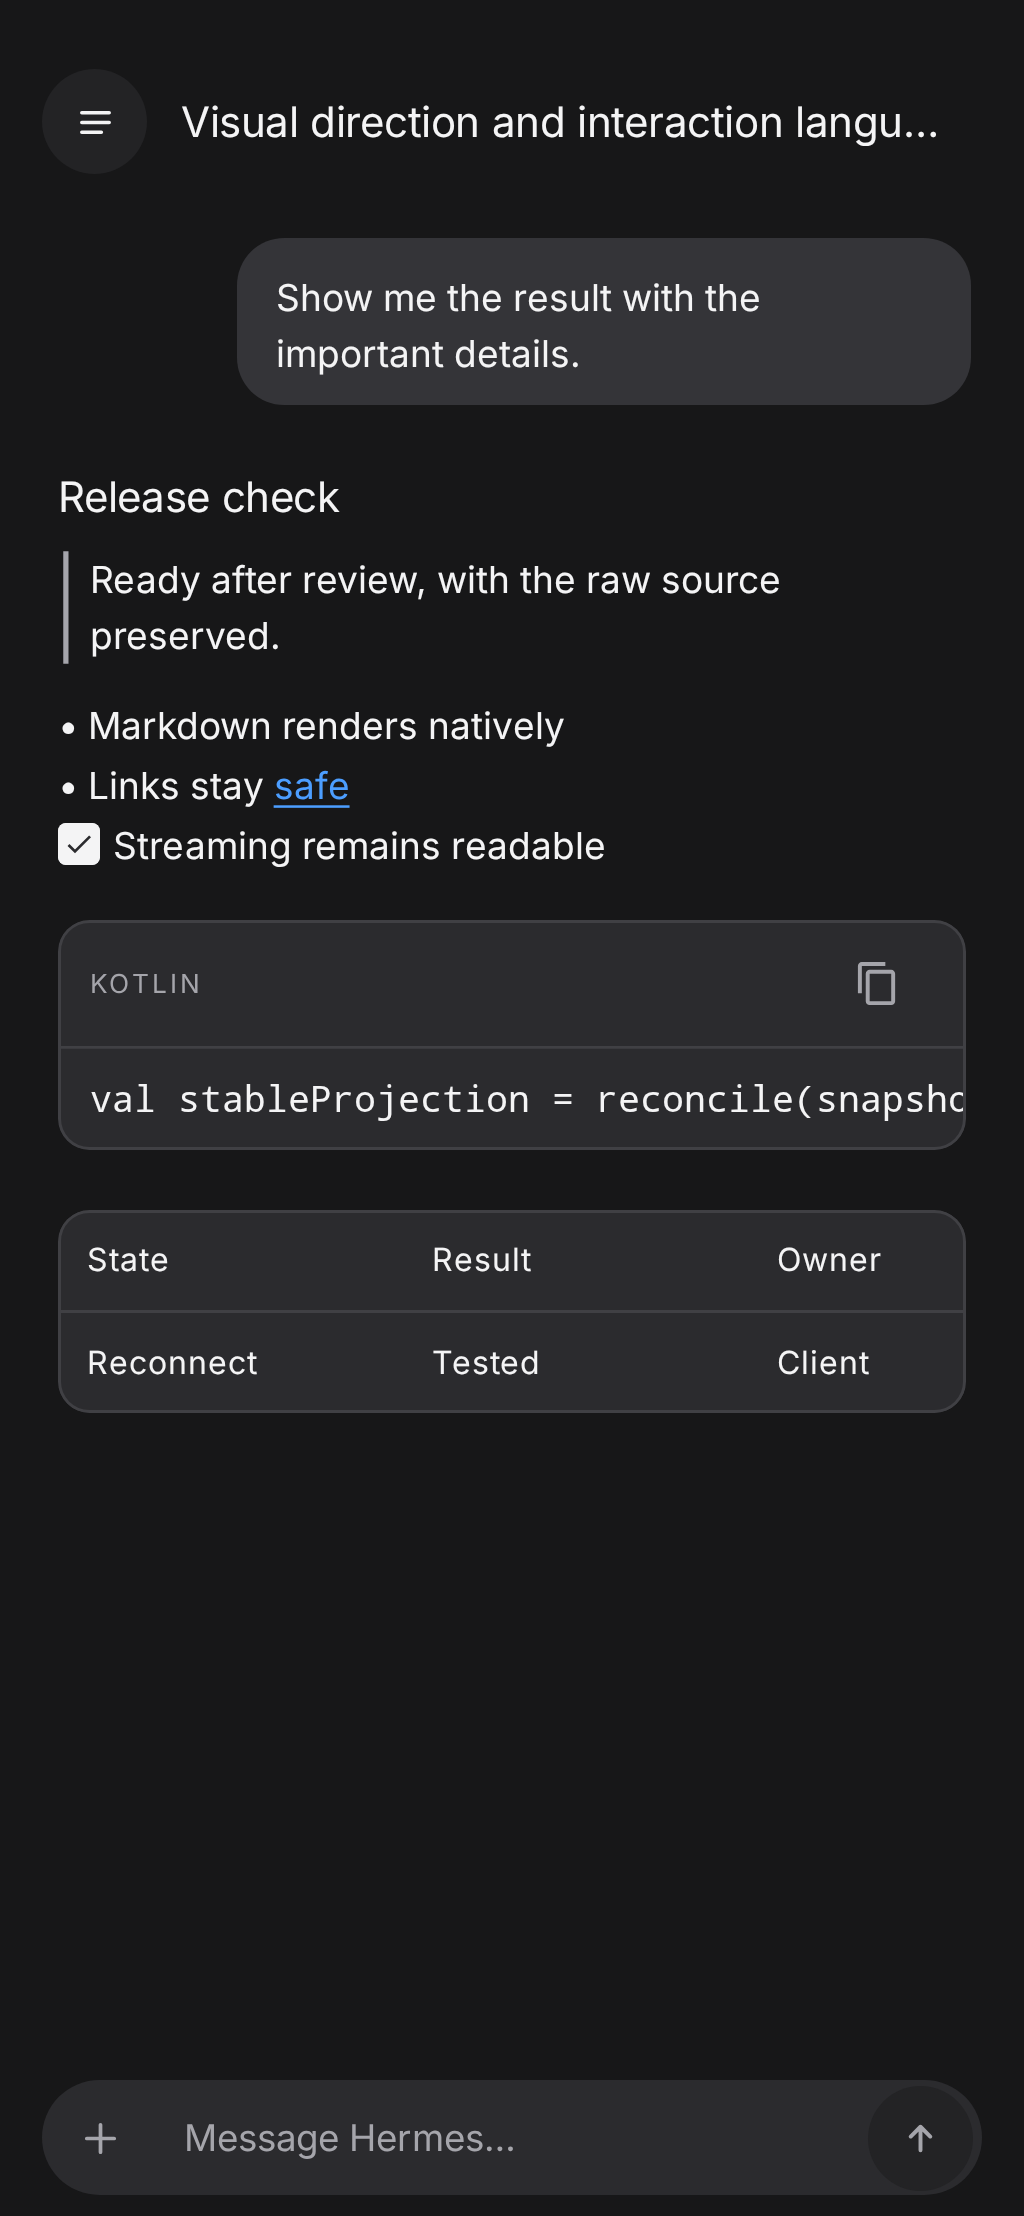
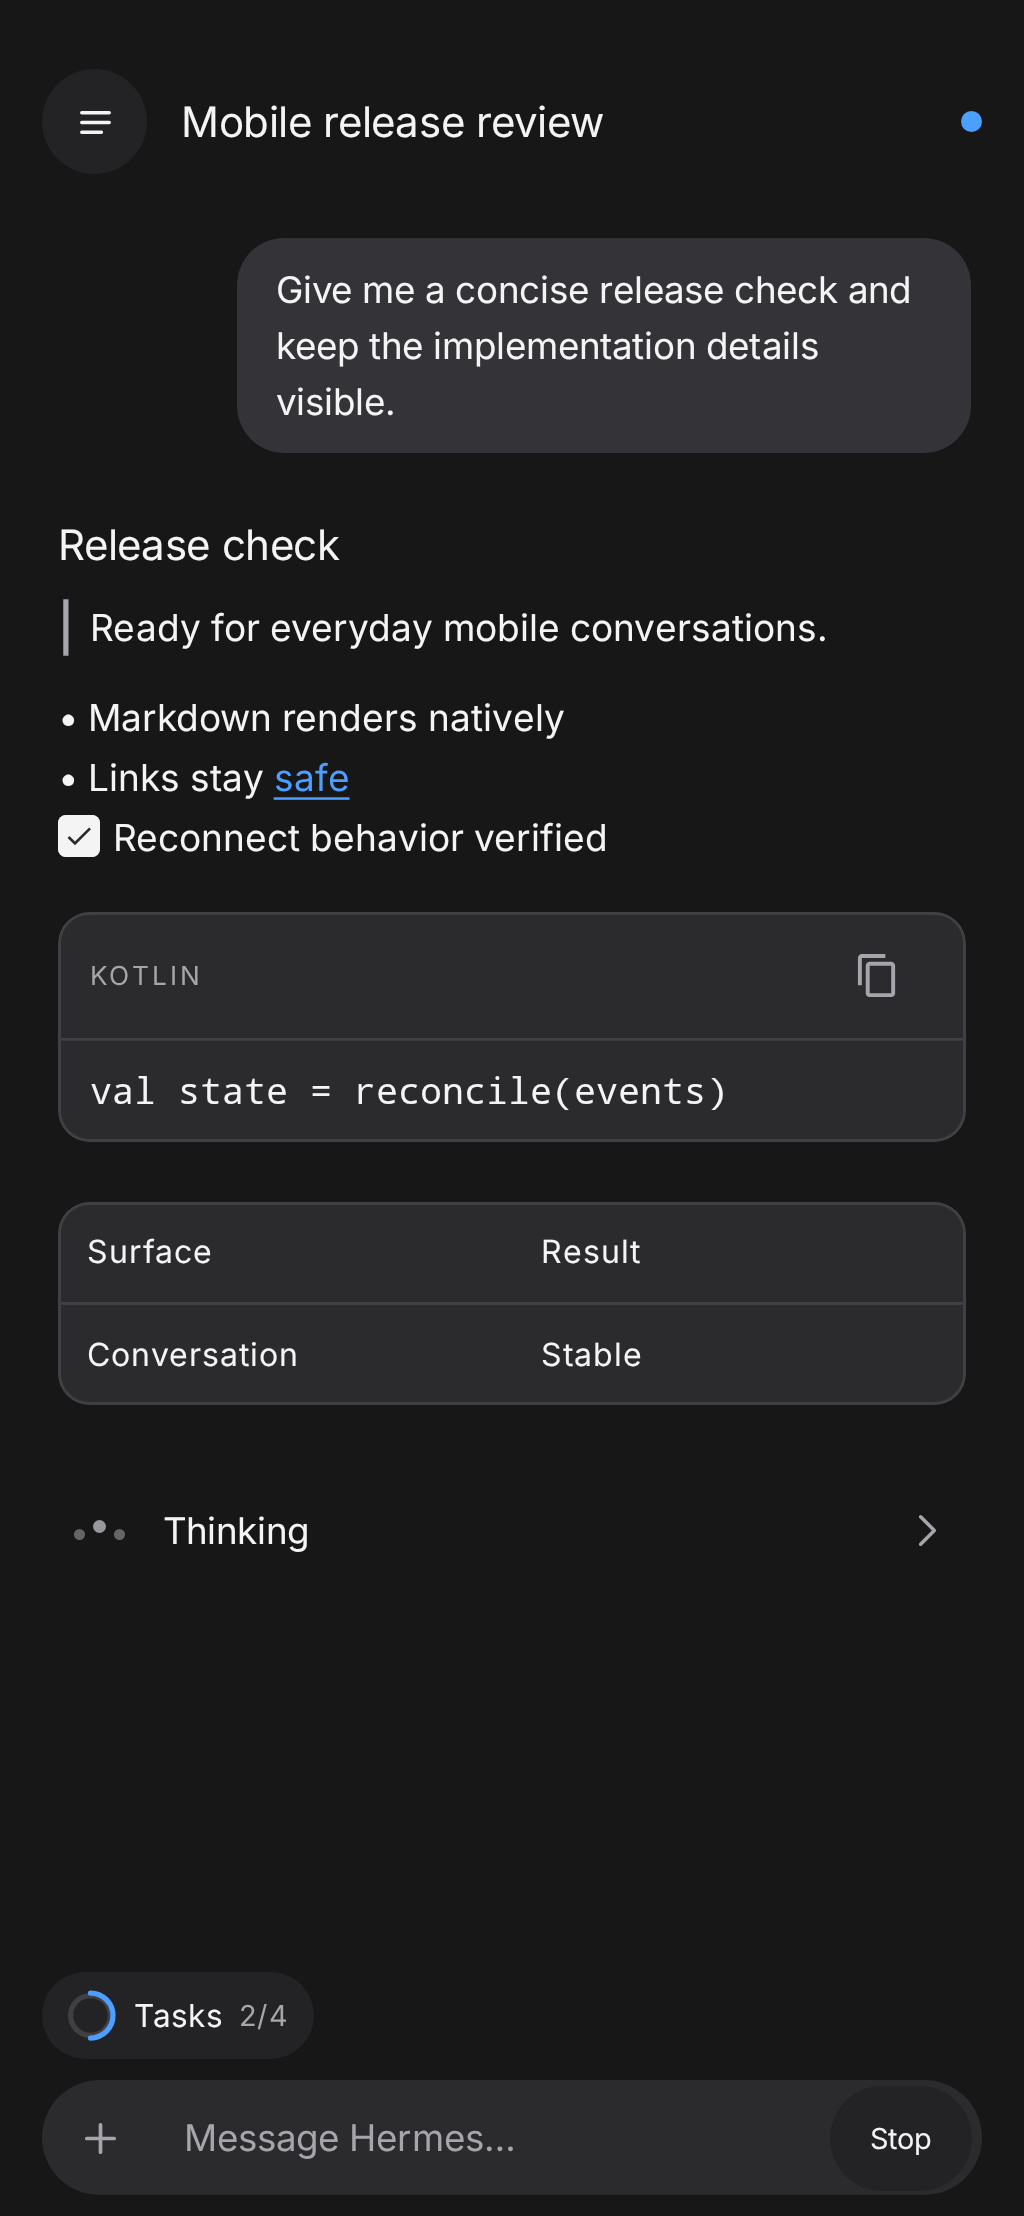
docs: refine screenshots and connection guide

diff --git a/README.md b/README.md
@@ -8,13 +8,13 @@ Celeste is a native Android client for a self-hosted [Hermes Agent](https://gith
 
 <table>
   <tr>
-    <td width="33%"><img src="docs/images/readme/conversation.png" alt="A rich Hermes conversation rendered in Celeste" /></td>
-    <td width="33%"><img src="docs/images/readme/thinking.png" alt="Thinking, task progress, and changed files in Celeste" /></td>
+    <td width="33%"><img src="docs/images/readme/conversation.png" alt="A rich Hermes conversation with Thinking and task progress in Celeste" /></td>
+    <td width="33%"><img src="docs/images/readme/thinking.png" alt="Opened Thinking steps and tool calls in Celeste" /></td>
     <td width="33%"><img src="docs/images/readme/conversations.png" alt="Celeste conversation search and navigation" /></td>
   </tr>
   <tr>
-    <td align="center"><sub>Rich native conversations</sub></td>
-    <td align="center"><sub>Thinking and agent work</sub></td>
+    <td align="center"><sub>Rich conversation and tasks</sub></td>
+    <td align="center"><sub>Thinking steps and tool calls</sub></td>
     <td align="center"><sub>Shared conversation history</sub></td>
   </tr>
 </table>
@@ -26,6 +26,13 @@ Celeste is a native Android client for a self-hosted [Hermes Agent](https://gith
 The rolling **[Latest test build](https://github.com/hermes-celeste/celeste/releases/download/latest-test/Hermes-Celeste-latest.apk)** is the current Celeste distribution. It is published after successful checks on `main` and supports Android 9 or newer.
 
 Install the APK, open **Hermes Celeste**, and connect to a Hermes dashboard that your phone can reach over HTTPS, a private network, or Tailscale.
+
+## How to connect
+
+1. [Set up Hermes Agent](https://hermes-agent.nousresearch.com/docs/getting-started/quickstart) and verify that a normal chat works on the Hermes machine.
+2. For the easiest private connection, [install Tailscale](https://tailscale.com/kb/1017/install) on the phone and the Hermes machine, then note the machine’s `100.x` address. A same-LAN address also works.
+3. On the Hermes machine, configure dashboard username/password authentication and start the dashboard on that reachable address. Nous documents the required bind and authentication setup in [Remote dashboard setup](https://hermes-agent.nousresearch.com/docs/user-guide/features/web-dashboard#remote-dashboard-setup). SSH may be how you administer a remote Hermes machine; Celeste itself connects to the dashboard, not through SSH.
+4. In Celeste, enter the dashboard URL, such as `http://100.x.y.z:9119` for a Tailscale address, then sign in with the dashboard username and password.
 
 ## What works
 
